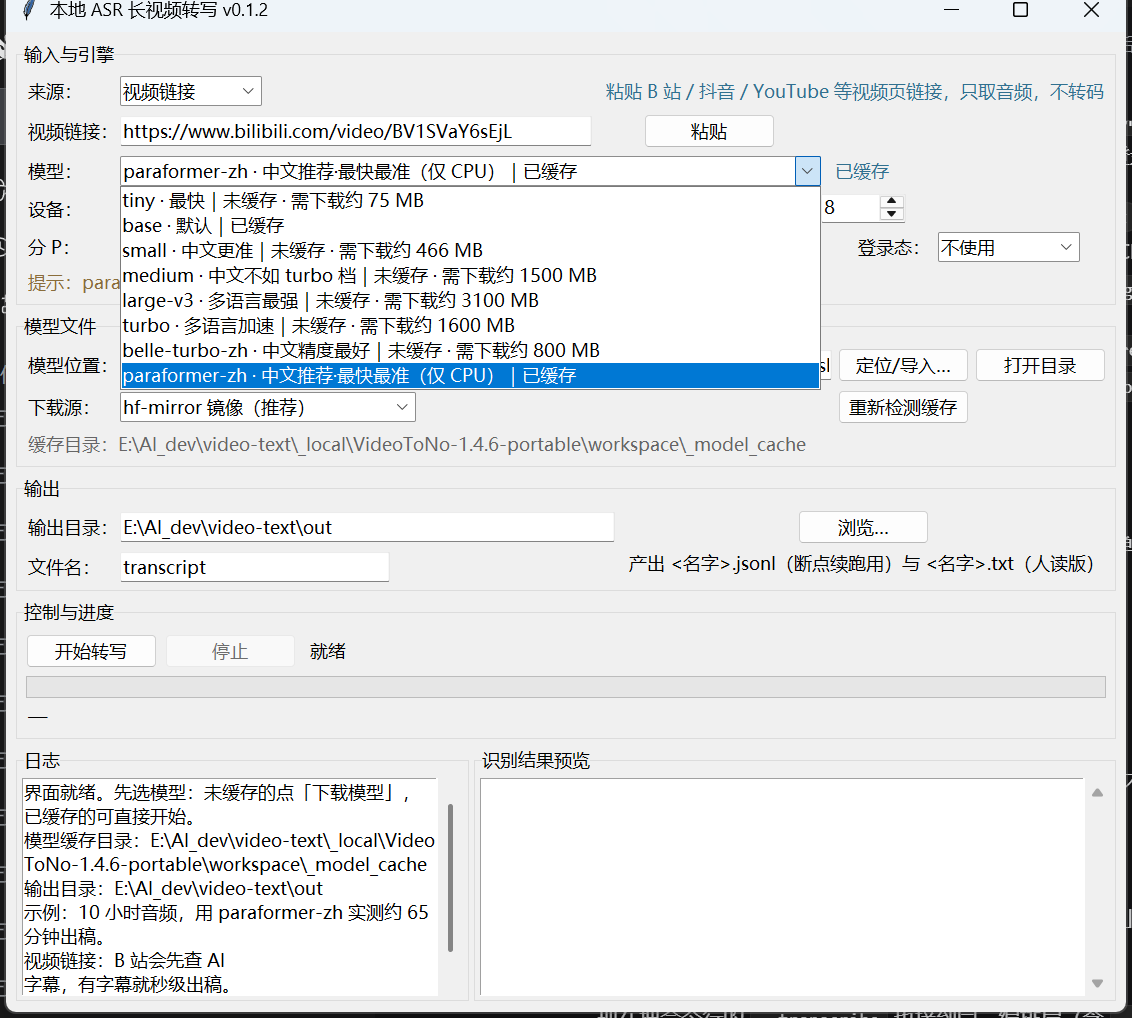
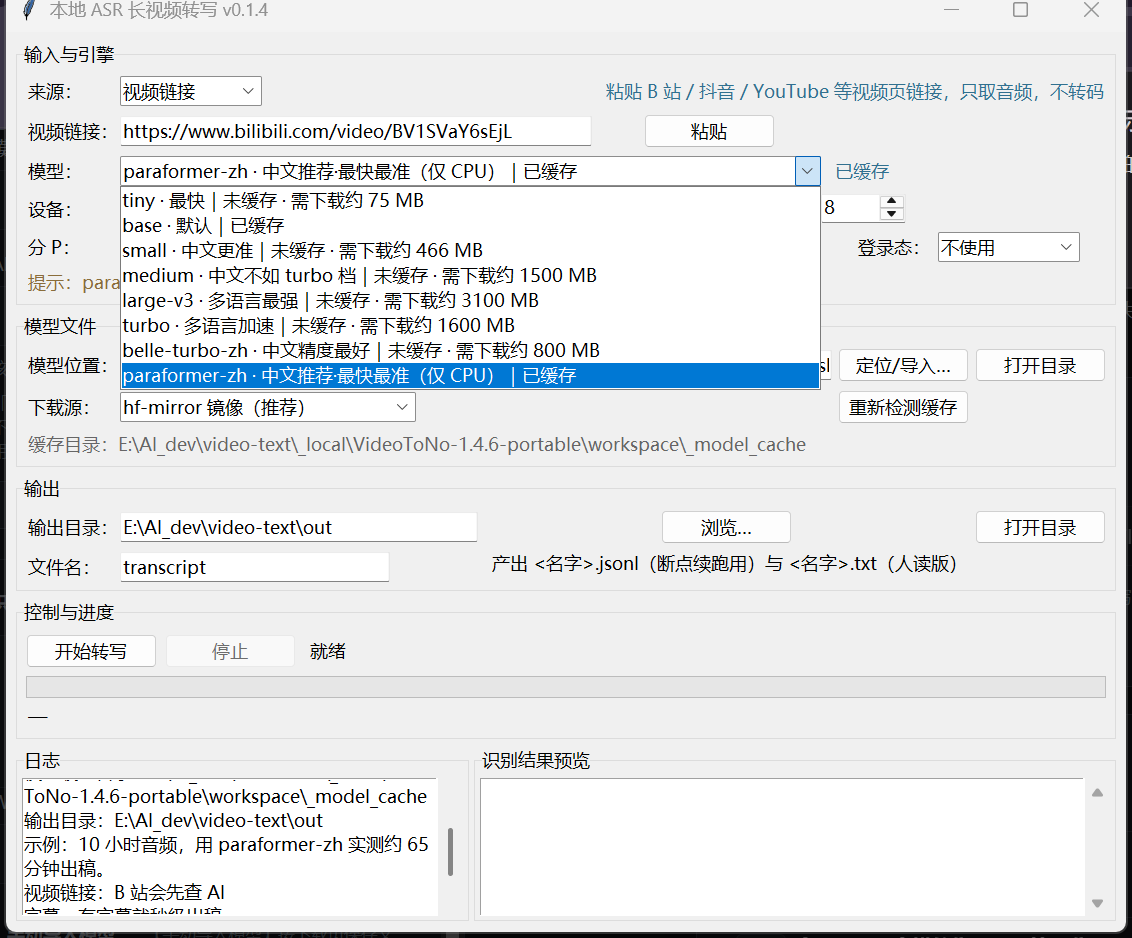
feat: open output folder button and accept pasted share text as a URL
Two paper cuts reported after v0.1.3:
- there was no way to open the output directory from the UI; added an 打开目录 button.
- Bilibili's share text (title + topic + link) was rejected because it does not start with http(s); sources.extract_url now pulls the first URL out of arbitrary text, used by the Paste button, on_start and --transcribe.

diff --git a/asr_gui/app.py b/asr_gui/app.py
@@ -358,6 +358,10 @@ class AsrGui:
             f3, text="浏览…", command=lambda: self._browse_dir(self.var_outdir)
         )
         self.btn_outdir.grid(row=0, column=2, padx=(6, 0))
+        self.btn_outdir_open = ttk.Button(
+            f3, text="打开目录", command=self._open_output_dir
+        )
+        self.btn_outdir_open.grid(row=0, column=3, padx=(6, 0))
 
         ttk.Label(f3, text="文件名：").grid(row=1, column=0, sticky="w", pady=(8, 0))
         self.ent_name = ttk.Entry(f3, textvariable=self.var_name, width=24)
@@ -412,8 +416,12 @@ class AsrGui:
                 self._log("剪贴板里没有文本，请手动粘贴链接。")
                 return
             if text:
-                self.var_media.set(text)
-                self._log(f"已从剪贴板粘贴：{text[:80]}")
+                url = sources.extract_url(text)
+                self.var_media.set(url or text)
+                if url:
+                    self._log(f"已从剪贴板粘贴链接：{url}")
+                else:
+                    self._log("剪贴板里没找到 http(s) 链接，已原样填入，请检查。")
             return
         if source == SOURCE_SUB:
             path = filedialog.askopenfilename(title="选择字幕文件", filetypes=SUBTITLE_FILE_TYPES)
@@ -653,6 +661,17 @@ class AsrGui:
         except Exception as exc:
             self._log(f"打开目录失败：{exc}")
 
+    def _open_output_dir(self) -> None:
+        """打开「输出目录」（不存在就先建出来）。"""
+        raw = self.var_outdir.get().strip()
+        target = Path(raw) if raw else app_config.default_output_dir()
+        try:
+            target.mkdir(parents=True, exist_ok=True)
+        except OSError as exc:
+            self._log(f"创建输出目录失败：{exc}")
+            return
+        self._open_folder(target)
+
     def _save_cfg_from_ui(self) -> None:
         self.cfg["model_id"] = self._current_model_id() or registry.PARAFORMER_ID
         self.cfg["device"] = self.var_device.get().strip() or "cpu"
@@ -684,11 +703,20 @@ class AsrGui:
             messagebox.showerror("无法开始", "请先填写或选择输入内容。")
             return
         if source == SOURCE_URL:
-            if not sources.is_supported_url(media):
+            url = sources.extract_url(media)
+            if not url:
                 messagebox.showerror(
-                    "无法开始", f"链接要以 http:// 或 https:// 开头：\n{media}"
+                    "无法开始",
+                    "这段文本里没找到 http:// 或 https:// 开头的链接：\n"
+                    f"{media[:200]}\n\n"
+                    "B 站「复制分享」会把标题一起带过来，只保留链接即可。",
                 )
                 return
+            if url != media:
+                # 粘贴的是分享文案：只留链接，省得用户手动删标题
+                self.var_media.set(url)
+                media = url
+                self._log(f"已从分享文案里取出链接：{url}")
         elif source == SOURCE_SUB:
             subtitle = Path(media)
             if not subtitle.is_file():
@@ -1466,7 +1494,9 @@ def _run_selftest(target: Path, interactive: bool) -> int:
 
 def _resolve_source(source: str, log) -> "Path | None":
     """把命令行来源解析成本地媒体文件：URL 先下音频，其余当本地路径。"""
-    if sources.is_supported_url(source):
+    url = sources.extract_url(source)
+    if url:
+        source = url
         log(f"下载音频：{source}")
         result = sources.download_audio(source, app_config.downloads_dir(), log=log)
         if not result.ok or result.path is None:
@@ -1653,6 +1683,11 @@ def _run_headless(
             log_path.write_text("\n".join(lines) + "\n", encoding="utf-8")
         except OSError:
             pass
+
+    # 允许把「分享文案」整段粘进来
+    url = sources.extract_url(source)
+    if url:
+        source = url
 
     try:
         is_subtitle = source.lower().endswith(sources.SUBTITLE_SUFFIXES)

diff --git a/tests/test_sources.py b/tests/test_sources.py
@@ -278,3 +278,41 @@ class TestCookieSources:
 
     def test_load_cookie_file_missing(self, tmp_path) -> None:
         assert sources.load_cookie_file(tmp_path / "nope.txt") == {}
+
+
+class TestExtractUrl:
+    """B 站「复制分享」会把标题和话题一起带过来。"""
+
+    def test_plain_url(self):
+        assert sources.extract_url("https://www.bilibili.com/video/BV1xx411c7mD") == (
+            "https://www.bilibili.com/video/BV1xx411c7mD"
+        )
+
+    def test_share_text_with_title(self):
+        text = (
+            "【全军配置最豪横的集团军，第82集团军，究竟有多强？ #军事科普】\n"
+            "https://www.bilibili.com/video/BV1M6pc65Eox?vd_source=deadbeef"
+        )
+        assert sources.extract_url(text) == (
+            "https://www.bilibili.com/video/BV1M6pc65Eox?vd_source=deadbeef"
+        )
+
+    def test_trailing_chinese_punctuation_is_trimmed(self):
+        assert sources.extract_url("看看这个 https://b23.tv/abc123。") == "https://b23.tv/abc123"
+        assert sources.extract_url("链接：https://b23.tv/abc123，挺好") == "https://b23.tv/abc123"
+
+    def test_first_url_wins(self):
+        text = "https://b23.tv/one 和 https://b23.tv/two"
+        assert sources.extract_url(text) == "https://b23.tv/one"
+
+    def test_no_url_returns_empty(self):
+        assert sources.extract_url("这里没有链接") == ""
+        assert sources.extract_url("") == ""
+        assert sources.extract_url(None) == ""
+
+    def test_is_supported_url_accepts_share_text(self):
+        assert sources.is_supported_url("【标题】 https://www.bilibili.com/video/BV1M6pc65Eox")
+
+    def test_is_supported_url_rejects_schemeless(self):
+        assert not sources.is_supported_url("www.bilibili.com/video/BV1M6pc65Eox")
+        assert not sources.is_supported_url("BV1M6pc65Eox")

diff --git a/asr_gui/sources.py b/asr_gui/sources.py
@@ -162,10 +162,29 @@ def write_jsonl(path: str | Path, segments: list[SubtitleSegment]) -> None:
 
 
 # ----------------------------------------------------------------- 视频链接下载
-def is_supported_url(value: str) -> bool:
-    """只接受 http(s) 链接（本地路径走「本地文件」）。"""
+_URL_RE = re.compile(r"https?://[^\s<>\"'，。、；！？（）【】]+", re.IGNORECASE)
+
+
+def extract_url(value: str) -> str:
+    """从任意文本里抠出第一个 http(s) 链接。
+
+    B 站「复制分享文案」会带标题和话题，例如
+    ``【全军配置最豪横的集团军】https://www.bilibili.com/video/BV1M6pc65Eox?vd_source=…``；
+    直接当成链接会因为不是以 ``http`` 开头而被拒。这里只取 URL 本身。
+    """
     text = (value or "").strip()
-    return text.lower().startswith(SUPPORTED_URL_PREFIXES) and len(text) > len("https://")
+    if not text:
+        return ""
+    match = _URL_RE.search(text)
+    if match is None:
+        return ""
+    url = match.group(0).rstrip(".,;:!?)]}>，。、；：！？）】")
+    return url
+
+
+def is_supported_url(value: str) -> bool:
+    """只接受 http(s) 链接（本地路径走「本地文件」）；分享文案里的链接也算。"""
+    return extract_url(value) != ""
 
 
 def build_download_options(
@@ -460,6 +479,7 @@ __all__ = [
     "clean_text",
     "describe_download_error",
     "download_audio",
+    "extract_url",
     "is_supported_url",
     "load_cookie_file",
     "parse_srt",

diff --git a/tests/test_app_contract.py b/tests/test_app_contract.py
@@ -57,7 +57,8 @@ class TestPublicContract:
             "_subtitle_worker",
             "_on_source_change",
             "_update_download_progress",
-            "_apply_url_widgets",
+            "_open_output_dir",
+        "_apply_url_widgets",
             "_ensure_transcriber",
             "_transcribe_media",
             "_emit_segments",

diff --git a/asr_gui/config.py b/asr_gui/config.py
@@ -21,7 +21,7 @@ CONFIG_FILENAME = "config.json"
 
 # Keep in sync with pyproject.toml / the git tag. Shown in the window title and
 # in the packaged exe name, so it must be a plain string literal here.
-APP_VERSION = "0.1.3"
+APP_VERSION = "0.1.4"
 
 DEFAULT_MODEL_ID = "paraformer-zh"
 DEFAULT_DEVICE = "cpu"

diff --git a/README.zh-CN.md b/README.zh-CN.md
@@ -37,7 +37,7 @@
   自写的流式下载：`*.part` 断点续传、按 `Content-Length` 校验完整性、失败自动重试，不依赖
   `huggingface_hub` 那套 snapshot 机制。
 - **断点续跑**——每识别出一段就追加进 JSONL 检查点。中途关窗、休眠、断网都没关系，重新选同一个
-  输出目录，会先问你是接着写还是重来。
+  输出目录（旁边的「打开目录」按钮可以直接打开它），会先问你是接着写还是重来。
 - **可取消**——点停止后，最迟一个分块（300 s）内停住，已经写入的内容全部保留。
 - **为长音频设计**——10 小时 / 35990 s 的视频，`paraformer-zh` 纯 CPU 实测约 65 分钟跑完
   （见[性能](#性能)）。
@@ -124,7 +124,7 @@ python -m pip install nvidia-cublas-cu12 nvidia-cudnn-cu12
 
 | 来源 | 你给它什么 | 它做什么 | 需要模型吗 |
 | --- | --- | --- | --- |
-| 视频链接 | 页面 URL（`https://…`），点「粘贴」可直接读剪贴板 | B 站先查 AI 字幕（有就秒级出稿、跳过下载与转写）；没有字幕或非 B 站才用 yt-dlp 只下音频轨到 `<程序目录>/downloads`（exe 版是 `%APPDATA%\asr-gui\downloads`），再照常分块转写 | 取决于有没有字幕 |
+| 视频链接 | 页面 URL（`https://…`）；点「粘贴」直接读剪贴板，B 站「复制分享」的整段文案（标题 + 话题 + 链接）也能贴，会自动只留链接 |  B 站先查 AI 字幕（有就秒级出稿、跳过下载与转写）；没有字幕或非 B 站才用 yt-dlp 只下音频轨到 `<程序目录>/downloads`（exe 版是 `%APPDATA%\asr-gui\downloads`），再照常分块转写 | 取决于有没有字幕 |
 | 本地文件 | 音频或视频文件的路径 | 直接解码转写，常见容器都行 | 需要 |
 | 字幕文件 | `.srt` / `.vtt` 文件 | 解析时间轴与正文，立刻写 txt + jsonl | **不需要** |
 
@@ -137,7 +137,7 @@ yt-dlp 会被打断，已下载的 `.part` 片段留在 `downloads` 里，下次
 `<名字>.p1.jsonl`、`<名字>.p2.jsonl`，全部结束后按时间轴合并成一份 `<名字>.txt`。AI 字幕需要
 登录态，未登录时接口返回空、自动回落语音转写——日志里会写「没有可用的 B 站字幕轨，改走语音转写。」
 
-看到的界面就是上面第三张图：选「视频链接」，贴 B 站地址，`分 P` 填 `1,3-5`、`登录态` 选 Chrome（拿 AI 字幕需要），点「开始转写」。
+看到的界面就是上面第三张图：选「视频链接」，贴 B 站地址（分享文案整段贴也行），`分 P` 填 `1,3-5`、`登录态` 选 Chrome（拿 AI 字幕需要），点「开始转写」。跑完点「打开目录」就能看到 `<名字>.txt`。
 
 命令行同样支持：`--pages 1,3-5`、`--cookies-from-browser chrome`、`--cookies cookies.txt`
 （Netscape 格式）、`--no-subtitle-first`（故意跳过字幕、强制走语音）。

diff --git a/CHANGELOG.md b/CHANGELOG.md
@@ -6,6 +6,22 @@ All notable changes to this project are documented here. Format follows
 
 ---
 
+## [0.1.4] - 2026-11-01
+
+### Added
+- 「输出」区新增 **打开目录** 按钮：直接打开当前输出目录（不存在会先创建），不用再复制路径到资源管理器。
+- `sources.extract_url()`：从任意文本里抠出第一个 http(s) 链接。
+- OK / EN: new **Open folder** button next to the output directory; `sources.extract_url()`.
+
+### Changed
+- 「视频链接」来源接受 B 站「复制分享」的整段文案（标题 + 话题 + 链接），自动只取链接；
+  「粘贴」按钮与命令行 `--transcribe` 同样处理。
+  EN: the URL source now accepts a pasted share blob and keeps only the link.
+
+### Tests
+- `tests/test_sources.py` 新增 `TestExtractUrl`（6 例：纯链接、分享文案、中文标点、多链接、无链接、无 scheme）；
+  `tests/test_app_contract.py` 方法清单加入 `_open_output_dir`。→ **231 用例**。
+
 ## [0.1.3] - 2026-11-01
 
 下载这一路更抗折腾：网络抖一下不再直接判死，失败时也告诉你该看哪儿。

diff --git a/README.md b/README.md
@@ -136,7 +136,7 @@ The "source" dropdown at the top decides what one run consumes:
 
 | Source | You provide | What happens | Needs a model |
 | --- | --- | --- | --- |
-| Video URL | a page URL (`https://...`); the 粘贴 button pastes from the clipboard | yt-dlp downloads the audio track only into `<app dir>/downloads` (`%APPDATA%\asr-gui\downloads` for the exe), then the usual chunked transcription runs | yes |
+| Video URL | a page URL (`https://...`); the 粘贴 button pastes from the clipboard, and Bilibili's "copy share" blob (title + link) works too — only the link is kept | yt-dlp downloads the audio track only into `<app dir>/downloads` (`%APPDATA%\asr-gui\downloads` for the exe), then the usual chunked transcription runs | yes |
 | Local file | path to an audio or video file | decoded and transcribed directly; common containers are fine | yes |
 | Subtitle file | a `.srt` / `.vtt` file | parsed into txt + jsonl immediately | **no** |
 
